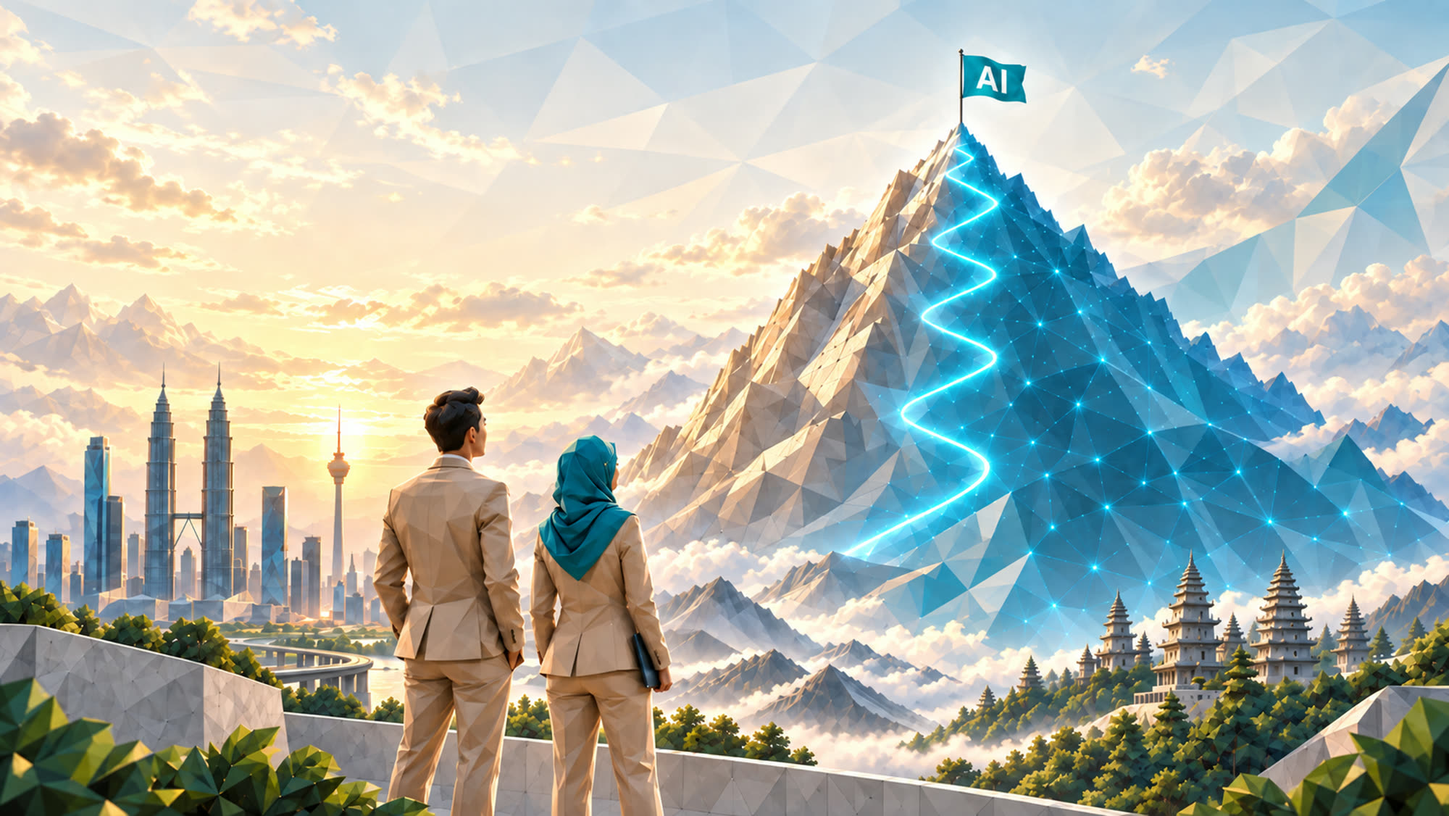
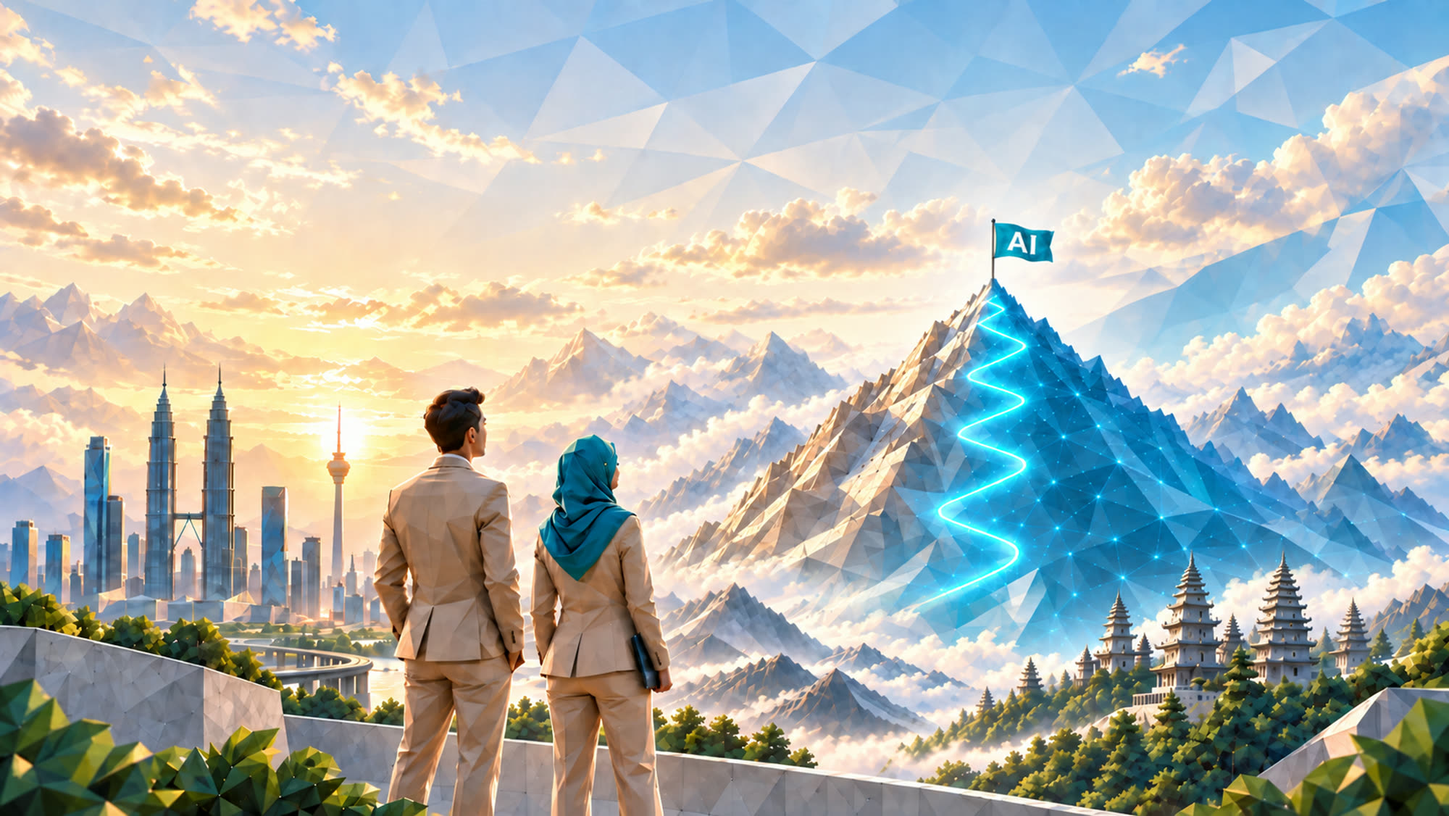
Let the summit carry the hero instead of the scrim
Re-encode the updated banner and rebuild the veil around it. The wash was
heaviest exactly where the peak and its AI flag sit, so it is now light and
sits low, and the copy earns contrast from a paper halo on the type itself.
The copy floats in the band under the summit while the chips hold the base
line. Phone widths crop a full-bleed cover too hard to keep the peak in
frame at all, so they get an art-directed split: copy on paper, whole scene
in a band beneath it.

diff --git a/dist/assets/styles.css b/dist/assets/styles.css
@@ -536,10 +536,11 @@ em {
 
 .home-hero {
   min-height: max(760px, 100svh);
-  align-content: space-between;
+  /* Copy floats in the band under the summit; the chips hold the base line. */
+  grid-template-rows: 1fr auto;
   justify-items: center;
   gap: 2rem;
-  padding-block: clamp(136px, 15vh, 190px) clamp(2rem, 5vh, 3.4rem);
+  padding-block: clamp(200px, 26vh, 320px) clamp(2rem, 5vh, 3.4rem);
   text-align: center;
   isolation: isolate;
 }
@@ -561,20 +562,22 @@ em {
   transition: transform 320ms ease-out;
 }
 
-/* Light scrim: keeps ink type legible up top, lets the scene breathe below. */
+/* A light touch only: the summit and its flag have to stay legible, so the
+   copy carries its own halo below rather than hiding behind a heavy wash. */
 .hero-backdrop::after {
   content: "";
   position: absolute;
   inset: 0;
   background:
-    linear-gradient(to bottom, var(--paper) 0%, rgba(255, 253, 248, 0) 7%),
-    radial-gradient(76% 52% at 50% 36%, rgba(255, 253, 248, 0.86), rgba(255, 253, 248, 0) 74%),
-    linear-gradient(to bottom, rgba(255, 253, 248, 0.94) 0%, rgba(255, 253, 248, 0.82) 32%, rgba(255, 253, 248, 0.46) 56%, rgba(255, 253, 248, 0) 82%);
+    linear-gradient(to bottom, var(--paper) 0%, rgba(255, 253, 248, 0) 5%),
+    radial-gradient(56% 30% at 50% 62%, rgba(255, 253, 248, 0.58), rgba(255, 253, 248, 0) 78%),
+    linear-gradient(to bottom, rgba(255, 253, 248, 0.28) 0%, rgba(255, 253, 248, 0.12) 26%, rgba(255, 253, 248, 0.26) 55%, rgba(255, 253, 248, 0.16) 78%, rgba(255, 253, 248, 0) 94%);
 }
 
 .hero-grid {
   position: relative;
   z-index: 1;
+  align-self: center;
   display: grid;
   justify-items: center;
 }
@@ -611,8 +614,18 @@ em {
 
 /* The scene sits behind this copy, so the lede needs more weight than --muted. */
 .home-hero .hero-lede {
-  color: rgba(16, 37, 33, 0.82);
+  color: rgba(16, 37, 33, 0.86);
   font-weight: 500;
+}
+
+/* A paper halo on the type itself buys contrast without flattening the art. */
+.home-hero .kicker,
+.home-hero .display,
+.home-hero .hero-subhead,
+.home-hero .hero-lede {
+  text-shadow:
+    0 0 14px rgba(255, 253, 248, 0.92),
+    0 0 34px rgba(255, 253, 248, 0.78);
 }
 
 .home-hero .button-row {
@@ -3445,8 +3458,8 @@ body.modal-open {
   /* Narrow crops put the scene right behind the copy, so the veil carries more. */
   .hero-backdrop::after {
     background:
-      linear-gradient(to bottom, var(--paper) 0%, rgba(255, 253, 248, 0) 6%),
-      linear-gradient(to bottom, rgba(255, 253, 248, 0.95) 0%, rgba(255, 253, 248, 0.89) 40%, rgba(255, 253, 248, 0.6) 64%, rgba(255, 253, 248, 0.08) 90%);
+      linear-gradient(to bottom, var(--paper) 0%, rgba(255, 253, 248, 0) 5%),
+      linear-gradient(to bottom, rgba(255, 253, 248, 0.62) 0%, rgba(255, 253, 248, 0.55) 42%, rgba(255, 253, 248, 0.32) 66%, rgba(255, 253, 248, 0) 88%);
   }
   .quiz-page-grid { grid-template-columns: 1fr; }
   .hero-copy { max-width: 700px; }
@@ -3675,6 +3688,46 @@ body.modal-open {
   .event-agenda li div { grid-column: 2; }
   .about-story__grid { grid-template-columns: 1fr; }
   .contact-grid aside { padding: 1.4rem; }
+}
+
+/* Phone widths crop a full-bleed cover so hard that the summit falls outside
+   the frame. Art-direct instead: copy on paper, the whole scene in a band
+   beneath it, so the peak and the flag survive the narrow viewport. */
+@media (max-width: 560px) {
+  .home-hero {
+    min-height: auto;
+    grid-template-rows: auto auto;
+    gap: 1.2rem;
+    padding-block: 96px calc(40vh + 1.3rem);
+    background: linear-gradient(to bottom, var(--beige), var(--paper));
+  }
+
+  .hero-backdrop {
+    inset: auto 0 0 0;
+    height: 40vh;
+  }
+
+  .hero-backdrop img {
+    object-position: 50% 45%;
+    transform: none;
+  }
+
+  .hero-backdrop::after {
+    background: linear-gradient(to bottom, var(--paper) 0%, rgba(255, 253, 248, 0) 22%);
+  }
+
+  /* On a clean ground the halo and the heavier lede are no longer needed. */
+  .home-hero .kicker,
+  .home-hero .display,
+  .home-hero .hero-subhead,
+  .home-hero .hero-lede {
+    text-shadow: none;
+  }
+
+  .home-hero .hero-lede {
+    color: var(--muted);
+    font-weight: 400;
+  }
 }
 
 @media (max-width: 470px) {

diff --git a/src/styles.css b/src/styles.css
@@ -536,10 +536,11 @@ em {
 
 .home-hero {
   min-height: max(760px, 100svh);
-  align-content: space-between;
+  /* Copy floats in the band under the summit; the chips hold the base line. */
+  grid-template-rows: 1fr auto;
   justify-items: center;
   gap: 2rem;
-  padding-block: clamp(136px, 15vh, 190px) clamp(2rem, 5vh, 3.4rem);
+  padding-block: clamp(200px, 26vh, 320px) clamp(2rem, 5vh, 3.4rem);
   text-align: center;
   isolation: isolate;
 }
@@ -561,20 +562,22 @@ em {
   transition: transform 320ms ease-out;
 }
 
-/* Light scrim: keeps ink type legible up top, lets the scene breathe below. */
+/* A light touch only: the summit and its flag have to stay legible, so the
+   copy carries its own halo below rather than hiding behind a heavy wash. */
 .hero-backdrop::after {
   content: "";
   position: absolute;
   inset: 0;
   background:
-    linear-gradient(to bottom, var(--paper) 0%, rgba(255, 253, 248, 0) 7%),
-    radial-gradient(76% 52% at 50% 36%, rgba(255, 253, 248, 0.86), rgba(255, 253, 248, 0) 74%),
-    linear-gradient(to bottom, rgba(255, 253, 248, 0.94) 0%, rgba(255, 253, 248, 0.82) 32%, rgba(255, 253, 248, 0.46) 56%, rgba(255, 253, 248, 0) 82%);
+    linear-gradient(to bottom, var(--paper) 0%, rgba(255, 253, 248, 0) 5%),
+    radial-gradient(56% 30% at 50% 62%, rgba(255, 253, 248, 0.58), rgba(255, 253, 248, 0) 78%),
+    linear-gradient(to bottom, rgba(255, 253, 248, 0.28) 0%, rgba(255, 253, 248, 0.12) 26%, rgba(255, 253, 248, 0.26) 55%, rgba(255, 253, 248, 0.16) 78%, rgba(255, 253, 248, 0) 94%);
 }
 
 .hero-grid {
   position: relative;
   z-index: 1;
+  align-self: center;
   display: grid;
   justify-items: center;
 }
@@ -611,8 +614,18 @@ em {
 
 /* The scene sits behind this copy, so the lede needs more weight than --muted. */
 .home-hero .hero-lede {
-  color: rgba(16, 37, 33, 0.82);
+  color: rgba(16, 37, 33, 0.86);
   font-weight: 500;
+}
+
+/* A paper halo on the type itself buys contrast without flattening the art. */
+.home-hero .kicker,
+.home-hero .display,
+.home-hero .hero-subhead,
+.home-hero .hero-lede {
+  text-shadow:
+    0 0 14px rgba(255, 253, 248, 0.92),
+    0 0 34px rgba(255, 253, 248, 0.78);
 }
 
 .home-hero .button-row {
@@ -3445,8 +3458,8 @@ body.modal-open {
   /* Narrow crops put the scene right behind the copy, so the veil carries more. */
   .hero-backdrop::after {
     background:
-      linear-gradient(to bottom, var(--paper) 0%, rgba(255, 253, 248, 0) 6%),
-      linear-gradient(to bottom, rgba(255, 253, 248, 0.95) 0%, rgba(255, 253, 248, 0.89) 40%, rgba(255, 253, 248, 0.6) 64%, rgba(255, 253, 248, 0.08) 90%);
+      linear-gradient(to bottom, var(--paper) 0%, rgba(255, 253, 248, 0) 5%),
+      linear-gradient(to bottom, rgba(255, 253, 248, 0.62) 0%, rgba(255, 253, 248, 0.55) 42%, rgba(255, 253, 248, 0.32) 66%, rgba(255, 253, 248, 0) 88%);
   }
   .quiz-page-grid { grid-template-columns: 1fr; }
   .hero-copy { max-width: 700px; }
@@ -3675,6 +3688,46 @@ body.modal-open {
   .event-agenda li div { grid-column: 2; }
   .about-story__grid { grid-template-columns: 1fr; }
   .contact-grid aside { padding: 1.4rem; }
+}
+
+/* Phone widths crop a full-bleed cover so hard that the summit falls outside
+   the frame. Art-direct instead: copy on paper, the whole scene in a band
+   beneath it, so the peak and the flag survive the narrow viewport. */
+@media (max-width: 560px) {
+  .home-hero {
+    min-height: auto;
+    grid-template-rows: auto auto;
+    gap: 1.2rem;
+    padding-block: 96px calc(40vh + 1.3rem);
+    background: linear-gradient(to bottom, var(--beige), var(--paper));
+  }
+
+  .hero-backdrop {
+    inset: auto 0 0 0;
+    height: 40vh;
+  }
+
+  .hero-backdrop img {
+    object-position: 50% 45%;
+    transform: none;
+  }
+
+  .hero-backdrop::after {
+    background: linear-gradient(to bottom, var(--paper) 0%, rgba(255, 253, 248, 0) 22%);
+  }
+
+  /* On a clean ground the halo and the heavier lede are no longer needed. */
+  .home-hero .kicker,
+  .home-hero .display,
+  .home-hero .hero-subhead,
+  .home-hero .hero-lede {
+    text-shadow: none;
+  }
+
+  .home-hero .hero-lede {
+    color: var(--muted);
+    font-weight: 400;
+  }
 }
 
 @media (max-width: 470px) {

diff --git a/dist/blog/the-cost-of-complacency-in-the-age-of-ai-and-why-future-proofing-your-talent-matters-more-than-ever/index.html b/dist/blog/the-cost-of-complacency-in-the-age-of-ai-and-why-future-proofing-your-talent-matters-more-than-ever/index.html
@@ -20,7 +20,7 @@
   <meta name="twitter:title" content="The Cost of Complacency in the Age of AI and why future-proofing your talent matters more than ever | Leadapreneur">
   <meta name="twitter:description" content="Complacency in the age of AI shows up when leaders can feel the shift happening, but still move as if there is plenty of time. The business is running. Customers are still buying. Teams are hitting…">
   <meta name="twitter:image" content="https://www.leadapreneur.com/images/insights/the-cost-of-complacency-in-the-age-of-ai-and-why-future-proofing-your-talent-matters-more-than-ever.webp">
-  <link rel="stylesheet" href="/assets/styles.css?v=1cd0111655">
+  <link rel="stylesheet" href="/assets/styles.css?v=43c83c42e1">
   <script type="application/ld+json">{"@context":"https://schema.org","@type":"BreadcrumbList","itemListElement":[{"@type":"ListItem","position":1,"name":"Home","item":"https://www.leadapreneur.com/"},{"@type":"ListItem","position":2,"name":"Insights","item":"https://www.leadapreneur.com/insights/"},{"@type":"ListItem","position":3,"name":"The Cost of Complacency in the Age of AI and why future-proofing your talent matters more than ever","item":"https://www.leadapreneur.com/blog/the-cost-of-complacency-in-the-age-of-ai-and-why-future-proofing-your-talent-matters-more-than-ever/"}]}</script>
 <script type="application/ld+json">{"@context":"https://schema.org","@type":"Article","headline":"The Cost of Complacency in the Age of AI and why future-proofing your talent matters more than ever","description":"Complacency in the age of AI shows up when leaders can feel the shift happening, but still move as if there is plenty of time. The business is running. Customers are still buying. Teams are hitting…","image":"https://www.leadapreneur.com/images/insights/the-cost-of-complacency-in-the-age-of-ai-and-why-future-proofing-your-talent-matters-more-than-ever.webp","datePublished":"2026-02-13","dateModified":"2026-02-13","author":{"@type":"Person","name":"Hanaa Maysoon"},"publisher":{"@type":"Organization","name":"Leadapreneur","url":"https://www.leadapreneur.com"},"mainEntityOfPage":"https://www.leadapreneur.com/blog/the-cost-of-complacency-in-the-age-of-ai-and-why-future-proofing-your-talent-matters-more-than-ever/"}</script>
 </head>

diff --git a/dist/blog/navigating-the-impact-of-ai-on-jobs-and-leadership-models-a-systemic-approach-to-embracing-change/index.html b/dist/blog/navigating-the-impact-of-ai-on-jobs-and-leadership-models-a-systemic-approach-to-embracing-change/index.html
@@ -20,7 +20,7 @@
   <meta name="twitter:title" content="Navigating the Impact of AI on Jobs and Leadership Models: A Systemic Approach to Embracing Change | Leadapreneur">
   <meta name="twitter:description" content="Artificial Intelligence (AI) is a technology that has revolutionized the way we live and work. Recently, tech moguls have signed an open letter asking for a pause in AI development to regulate the…">
   <meta name="twitter:image" content="https://www.leadapreneur.com/images/insights/navigating-the-impact-of-ai-on-jobs-and-leadership-models-a-systemic-approach-to-embracing-change.webp">
-  <link rel="stylesheet" href="/assets/styles.css?v=1cd0111655">
+  <link rel="stylesheet" href="/assets/styles.css?v=43c83c42e1">
   <script type="application/ld+json">{"@context":"https://schema.org","@type":"BreadcrumbList","itemListElement":[{"@type":"ListItem","position":1,"name":"Home","item":"https://www.leadapreneur.com/"},{"@type":"ListItem","position":2,"name":"Insights","item":"https://www.leadapreneur.com/insights/"},{"@type":"ListItem","position":3,"name":"Navigating the Impact of AI on Jobs and Leadership Models: A Systemic Approach to Embracing Change","item":"https://www.leadapreneur.com/blog/navigating-the-impact-of-ai-on-jobs-and-leadership-models-a-systemic-approach-to-embracing-change/"}]}</script>
 <script type="application/ld+json">{"@context":"https://schema.org","@type":"Article","headline":"Navigating the Impact of AI on Jobs and Leadership Models: A Systemic Approach to Embracing Change","description":"Artificial Intelligence (AI) is a technology that has revolutionized the way we live and work. Recently, tech moguls have signed an open letter asking for a pause in AI development to regulate the…","image":"https://www.leadapreneur.com/images/insights/navigating-the-impact-of-ai-on-jobs-and-leadership-models-a-systemic-approach-to-embracing-change.webp","datePublished":"2024-01-30","dateModified":"2024-01-30","author":{"@type":"Organization","name":"Leadapreneur"},"publisher":{"@type":"Organization","name":"Leadapreneur","url":"https://www.leadapreneur.com"},"mainEntityOfPage":"https://www.leadapreneur.com/blog/navigating-the-impact-of-ai-on-jobs-and-leadership-models-a-systemic-approach-to-embracing-change/"}</script>
 </head>

diff --git a/dist/blog/what-we-witnessed-at-leadapreneur-open-day-2025-a-real-look-at-future-proofing-your-talent-in-the-age-of-ai/index.html b/dist/blog/what-we-witnessed-at-leadapreneur-open-day-2025-a-real-look-at-future-proofing-your-talent-in-the-age-of-ai/index.html
@@ -20,7 +20,7 @@
   <meta name="twitter:title" content="What We Witnessed at Leadapreneur Open Day 2025: A Real Look at Future Proofing Your Talent In The Age Of AI | Leadapreneur">
   <meta name="twitter:description" content="Something unexpected happened at Leadapreneur’s Open Day on June 11, 2025 and it turned a great event into something unforgettable.">
   <meta name="twitter:image" content="https://www.leadapreneur.com/images/insights/what-we-witnessed-at-leadapreneur-open-day-2025-a-real-look-at-future-proofing-your-talent-in-the-age-of-ai.webp">
-  <link rel="stylesheet" href="/assets/styles.css?v=1cd0111655">
+  <link rel="stylesheet" href="/assets/styles.css?v=43c83c42e1">
   <script type="application/ld+json">{"@context":"https://schema.org","@type":"BreadcrumbList","itemListElement":[{"@type":"ListItem","position":1,"name":"Home","item":"https://www.leadapreneur.com/"},{"@type":"ListItem","position":2,"name":"Insights","item":"https://www.leadapreneur.com/insights/"},{"@type":"ListItem","position":3,"name":"What We Witnessed at Leadapreneur Open Day 2025: A Real Look at Future Proofing Your Talent In The Age Of AI","item":"https://www.leadapreneur.com/blog/what-we-witnessed-at-leadapreneur-open-day-2025-a-real-look-at-future-proofing-your-talent-in-the-age-of-ai/"}]}</script>
 <script type="application/ld+json">{"@context":"https://schema.org","@type":"Article","headline":"What We Witnessed at Leadapreneur Open Day 2025: A Real Look at Future Proofing Your Talent In The Age Of AI","description":"Something unexpected happened at Leadapreneur’s Open Day on June 11, 2025 and it turned a great event into something unforgettable.","image":"https://www.leadapreneur.com/images/insights/what-we-witnessed-at-leadapreneur-open-day-2025-a-real-look-at-future-proofing-your-talent-in-the-age-of-ai.webp","datePublished":"2025-07-01","dateModified":"2025-07-01","author":{"@type":"Organization","name":"Leadapreneur"},"publisher":{"@type":"Organization","name":"Leadapreneur","url":"https://www.leadapreneur.com"},"mainEntityOfPage":"https://www.leadapreneur.com/blog/what-we-witnessed-at-leadapreneur-open-day-2025-a-real-look-at-future-proofing-your-talent-in-the-age-of-ai/"}</script>
 </head>

diff --git a/dist/blog/embracing-change-navigating-the-emotional-journey-of-innovation-in-the-age-of-purpose/index.html b/dist/blog/embracing-change-navigating-the-emotional-journey-of-innovation-in-the-age-of-purpose/index.html
@@ -20,7 +20,7 @@
   <meta name="twitter:title" content="Embracing Change: Navigating the Emotional Journey of Innovation in the Age of Purpose | Leadapreneur">
   <meta name="twitter:description" content="Change is inevitable, and we are currently living in a time of rapid technological advancement. In the podcast discussion, Jan and Hanaa explore the exciting possibilities that artificial intelligence…">
   <meta name="twitter:image" content="https://www.leadapreneur.com/images/insights/embracing-change-navigating-the-emotional-journey-of-innovation-in-the-age-of-purpose.webp">
-  <link rel="stylesheet" href="/assets/styles.css?v=1cd0111655">
+  <link rel="stylesheet" href="/assets/styles.css?v=43c83c42e1">
   <script type="application/ld+json">{"@context":"https://schema.org","@type":"BreadcrumbList","itemListElement":[{"@type":"ListItem","position":1,"name":"Home","item":"https://www.leadapreneur.com/"},{"@type":"ListItem","position":2,"name":"Insights","item":"https://www.leadapreneur.com/insights/"},{"@type":"ListItem","position":3,"name":"Embracing Change: Navigating the Emotional Journey of Innovation in the Age of Purpose","item":"https://www.leadapreneur.com/blog/embracing-change-navigating-the-emotional-journey-of-innovation-in-the-age-of-purpose/"}]}</script>
 <script type="application/ld+json">{"@context":"https://schema.org","@type":"Article","headline":"Embracing Change: Navigating the Emotional Journey of Innovation in the Age of Purpose","description":"Change is inevitable, and we are currently living in a time of rapid technological advancement. In the podcast discussion, Jan and Hanaa explore the exciting possibilities that artificial intelligence…","image":"https://www.leadapreneur.com/images/insights/embracing-change-navigating-the-emotional-journey-of-innovation-in-the-age-of-purpose.webp","datePublished":"2024-05-03","dateModified":"2024-05-03","author":{"@type":"Organization","name":"Leadapreneur"},"publisher":{"@type":"Organization","name":"Leadapreneur","url":"https://www.leadapreneur.com"},"mainEntityOfPage":"https://www.leadapreneur.com/blog/embracing-change-navigating-the-emotional-journey-of-innovation-in-the-age-of-purpose/"}</script>
 </head>

diff --git a/dist/blog/the-real-story-in-the-2028-intelligence-crisis-report-leadership-ai-impowerment-futureproof/index.html b/dist/blog/the-real-story-in-the-2028-intelligence-crisis-report-leadership-ai-impowerment-futureproof/index.html
@@ -20,7 +20,7 @@
   <meta name="twitter:title" content="The Real Story in the 2028 Intelligence Crisis Report | Leadapreneur">
   <meta name="twitter:description" content="There’s a piece floating around in parts of the AI and finance world that’s been getting a lot of attention. It’s from Citrini Research, and it’s written as a future memo from the year 2028. The…">
   <meta name="twitter:image" content="https://www.leadapreneur.com/images/insights/the-real-story-in-the-2028-intelligence-crisis-report-leadership-ai-impowerment-futureproof.webp">
-  <link rel="stylesheet" href="/assets/styles.css?v=1cd0111655">
+  <link rel="stylesheet" href="/assets/styles.css?v=43c83c42e1">
   <script type="application/ld+json">{"@context":"https://schema.org","@type":"BreadcrumbList","itemListElement":[{"@type":"ListItem","position":1,"name":"Home","item":"https://www.leadapreneur.com/"},{"@type":"ListItem","position":2,"name":"Insights","item":"https://www.leadapreneur.com/insights/"},{"@type":"ListItem","position":3,"name":"The Real Story in the 2028 Intelligence Crisis Report","item":"https://www.leadapreneur.com/blog/the-real-story-in-the-2028-intelligence-crisis-report-leadership-ai-impowerment-futureproof/"}]}</script>
 <script type="application/ld+json">{"@context":"https://schema.org","@type":"Article","headline":"The Real Story in the 2028 Intelligence Crisis Report","description":"There’s a piece floating around in parts of the AI and finance world that’s been getting a lot of attention. It’s from Citrini Research, and it’s written as a future memo from the year 2028. The…","image":"https://www.leadapreneur.com/images/insights/the-real-story-in-the-2028-intelligence-crisis-report-leadership-ai-impowerment-futureproof.webp","datePublished":"2026-03-17","dateModified":"2026-03-17","author":{"@type":"Person","name":"Hanaa Maysoon"},"publisher":{"@type":"Organization","name":"Leadapreneur","url":"https://www.leadapreneur.com"},"mainEntityOfPage":"https://www.leadapreneur.com/blog/the-real-story-in-the-2028-intelligence-crisis-report-leadership-ai-impowerment-futureproof/"}</script>
 </head>

diff --git a/dist/blog/wu-wei-ing-her-way-through-the-leadapreneurship-journey-sakinah-ghazali/index.html b/dist/blog/wu-wei-ing-her-way-through-the-leadapreneurship-journey-sakinah-ghazali/index.html
@@ -20,7 +20,7 @@
   <meta name="twitter:title" content="Wu Wei-ing her way through the leadapreneurship journey: Sakinah Ghazali | Leadapreneur">
   <meta name="twitter:description" content="The desire to succeed was greater than failure. That was how Sakinah Ghazali narrates her journey of becoming a leadapreneur. When the Assistant Vice President of Partnership Pos from AXA Affin General…">
   <meta name="twitter:image" content="https://www.leadapreneur.com/images/insights/wu-wei-ing-her-way-through-the-leadapreneurship-journey-sakinah-ghazali.webp">
-  <link rel="stylesheet" href="/assets/styles.css?v=1cd0111655">
+  <link rel="stylesheet" href="/assets/styles.css?v=43c83c42e1">
   <script type="application/ld+json">{"@context":"https://schema.org","@type":"BreadcrumbList","itemListElement":[{"@type":"ListItem","position":1,"name":"Home","item":"https://www.leadapreneur.com/"},{"@type":"ListItem","position":2,"name":"Insights","item":"https://www.leadapreneur.com/insights/"},{"@type":"ListItem","position":3,"name":"Wu Wei-ing her way through the leadapreneurship journey: Sakinah Ghazali","item":"https://www.leadapreneur.com/blog/wu-wei-ing-her-way-through-the-leadapreneurship-journey-sakinah-ghazali/"}]}</script>
 <script type="application/ld+json">{"@context":"https://schema.org","@type":"Article","headline":"Wu Wei-ing her way through the leadapreneurship journey: Sakinah Ghazali","description":"The desire to succeed was greater than failure. That was how Sakinah Ghazali narrates her journey of becoming a leadapreneur. When the Assistant Vice President of Partnership Pos from AXA Affin General…","image":"https://www.leadapreneur.com/images/insights/wu-wei-ing-her-way-through-the-leadapreneurship-journey-sakinah-ghazali.webp","datePublished":"2024-06-11","dateModified":"2024-06-11","author":{"@type":"Organization","name":"Leadapreneur"},"publisher":{"@type":"Organization","name":"Leadapreneur","url":"https://www.leadapreneur.com"},"mainEntityOfPage":"https://www.leadapreneur.com/blog/wu-wei-ing-her-way-through-the-leadapreneurship-journey-sakinah-ghazali/"}</script>
 </head>

diff --git a/dist/blog/making-change-viable-the-leadapreneur-way-sarah-margaret-peter-victorian/index.html b/dist/blog/making-change-viable-the-leadapreneur-way-sarah-margaret-peter-victorian/index.html
@@ -20,7 +20,7 @@
   <meta name="twitter:title" content="Making change viable the Leadapreneur way: Sarah Margaret Peter Victorian | Leadapreneur">
   <meta name="twitter:description" content="Business leaders are aware that change is the precursor to growth but for Sarah Margaret Peter, it is so important because change also determines business sustainability, especially in the face of…">
   <meta name="twitter:image" content="https://www.leadapreneur.com/images/insights/making-change-viable-the-leadapreneur-way-sarah-margaret-peter-victorian.webp">
-  <link rel="stylesheet" href="/assets/styles.css?v=1cd0111655">
+  <link rel="stylesheet" href="/assets/styles.css?v=43c83c42e1">
   <script type="application/ld+json">{"@context":"https://schema.org","@type":"BreadcrumbList","itemListElement":[{"@type":"ListItem","position":1,"name":"Home","item":"https://www.leadapreneur.com/"},{"@type":"ListItem","position":2,"name":"Insights","item":"https://www.leadapreneur.com/insights/"},{"@type":"ListItem","position":3,"name":"Making change viable the Leadapreneur way: Sarah Margaret Peter Victorian","item":"https://www.leadapreneur.com/blog/making-change-viable-the-leadapreneur-way-sarah-margaret-peter-victorian/"}]}</script>
 <script type="application/ld+json">{"@context":"https://schema.org","@type":"Article","headline":"Making change viable the Leadapreneur way: Sarah Margaret Peter Victorian","description":"Business leaders are aware that change is the precursor to growth but for Sarah Margaret Peter, it is so important because change also determines business sustainability, especially in the face of…","image":"https://www.leadapreneur.com/images/insights/making-change-viable-the-leadapreneur-way-sarah-margaret-peter-victorian.webp","datePublished":"2024-05-22","dateModified":"2024-05-22","author":{"@type":"Organization","name":"Leadapreneur"},"publisher":{"@type":"Organization","name":"Leadapreneur","url":"https://www.leadapreneur.com"},"mainEntityOfPage":"https://www.leadapreneur.com/blog/making-change-viable-the-leadapreneur-way-sarah-margaret-peter-victorian/"}</script>
 </head>

diff --git a/dist/blog/this-warrior-finds-his-reward-through-leadapreneur-danny-chia-kai-yan/index.html b/dist/blog/this-warrior-finds-his-reward-through-leadapreneur-danny-chia-kai-yan/index.html
@@ -20,7 +20,7 @@
   <meta name="twitter:title" content="This warrior finds his reward through Leadapreneur: Danny Chia Kai Yan | Leadapreneur">
   <meta name="twitter:description" content="Danny Chia Kai Yan has always been a problem solver at heart, which explains why he has always enjoyed working with coding and development programmes that help businesses maximise their efficiency.">
   <meta name="twitter:image" content="https://www.leadapreneur.com/images/insights/this-warrior-finds-his-reward-through-leadapreneur-danny-chia-kai-yan.webp">
-  <link rel="stylesheet" href="/assets/styles.css?v=1cd0111655">
+  <link rel="stylesheet" href="/assets/styles.css?v=43c83c42e1">
   <script type="application/ld+json">{"@context":"https://schema.org","@type":"BreadcrumbList","itemListElement":[{"@type":"ListItem","position":1,"name":"Home","item":"https://www.leadapreneur.com/"},{"@type":"ListItem","position":2,"name":"Insights","item":"https://www.leadapreneur.com/insights/"},{"@type":"ListItem","position":3,"name":"This warrior finds his reward through Leadapreneur: Danny Chia Kai Yan","item":"https://www.leadapreneur.com/blog/this-warrior-finds-his-reward-through-leadapreneur-danny-chia-kai-yan/"}]}</script>
 <script type="application/ld+json">{"@context":"https://schema.org","@type":"Article","headline":"This warrior finds his reward through Leadapreneur: Danny Chia Kai Yan","description":"Danny Chia Kai Yan has always been a problem solver at heart, which explains why he has always enjoyed working with coding and development programmes that help businesses maximise their efficiency.","image":"https://www.leadapreneur.com/images/insights/this-warrior-finds-his-reward-through-leadapreneur-danny-chia-kai-yan.webp","datePublished":"2024-08-12","dateModified":"2024-08-12","author":{"@type":"Organization","name":"Leadapreneur"},"publisher":{"@type":"Organization","name":"Leadapreneur","url":"https://www.leadapreneur.com"},"mainEntityOfPage":"https://www.leadapreneur.com/blog/this-warrior-finds-his-reward-through-leadapreneur-danny-chia-kai-yan/"}</script>
 </head>

diff --git a/dist/blog/ai-in-the-workplace-leadapreneur-gamified-programs/index.html b/dist/blog/ai-in-the-workplace-leadapreneur-gamified-programs/index.html
@@ -20,7 +20,7 @@
   <meta name="twitter:title" content="How AI is Reshaping Careers: From Tessl’s Innovations to the Future of Entry-Level Jobs | Leadapreneur">
   <meta name="twitter:description" content="The rise of artificial intelligence (AI) is no longer just a buzzword—it&#039;s reshaping industries, redefining roles, and disrupting traditional career paths. From platforms like Tessl , which raised…">
   <meta name="twitter:image" content="https://www.leadapreneur.com/images/insights/ai-in-the-workplace-leadapreneur-gamified-programs.webp">
-  <link rel="stylesheet" href="/assets/styles.css?v=1cd0111655">
+  <link rel="stylesheet" href="/assets/styles.css?v=43c83c42e1">
   <script type="application/ld+json">{"@context":"https://schema.org","@type":"BreadcrumbList","itemListElement":[{"@type":"ListItem","position":1,"name":"Home","item":"https://www.leadapreneur.com/"},{"@type":"ListItem","position":2,"name":"Insights","item":"https://www.leadapreneur.com/insights/"},{"@type":"ListItem","position":3,"name":"How AI is Reshaping Careers: From Tessl’s Innovations to the Future of Entry-Level Jobs","item":"https://www.leadapreneur.com/blog/ai-in-the-workplace-leadapreneur-gamified-programs/"}]}</script>
 <script type="application/ld+json">{"@context":"https://schema.org","@type":"Article","headline":"How AI is Reshaping Careers: From Tessl’s Innovations to the Future of Entry-Level Jobs","description":"The rise of artificial intelligence (AI) is no longer just a buzzword—it's reshaping industries, redefining roles, and disrupting traditional career paths. From platforms like Tessl , which raised…","image":"https://www.leadapreneur.com/images/insights/ai-in-the-workplace-leadapreneur-gamified-programs.webp","datePublished":"2024-11-24","dateModified":"2024-11-24","author":{"@type":"Organization","name":"Leadapreneur"},"publisher":{"@type":"Organization","name":"Leadapreneur","url":"https://www.leadapreneur.com"},"mainEntityOfPage":"https://www.leadapreneur.com/blog/ai-in-the-workplace-leadapreneur-gamified-programs/"}</script>
 </head>

diff --git a/dist/blog/from-resistance-to-renewal-wendy’s-leadership-journey-through-the-toshiba-teka-greatness-games/index.html b/dist/blog/from-resistance-to-renewal-wendy’s-leadership-journey-through-the-toshiba-teka-greatness-games/index.html
@@ -20,7 +20,7 @@
   <meta name="twitter:title" content="From Resistance to Renewal: Wendy’s Leadership Journey Through the TOSHIBA TEKA Greatness Games | Leadapreneur">
   <meta name="twitter:description" content="Most organisations talk about transformation. Very few are willing to live through it.">
   <meta name="twitter:image" content="https://www.leadapreneur.com/images/insights/from-resistance-to-renewal-wendy’s-leadership-journey-through-the-toshiba-teka-greatness-games.webp">
-  <link rel="stylesheet" href="/assets/styles.css?v=1cd0111655">
+  <link rel="stylesheet" href="/assets/styles.css?v=43c83c42e1">
   <script type="application/ld+json">{"@context":"https://schema.org","@type":"BreadcrumbList","itemListElement":[{"@type":"ListItem","position":1,"name":"Home","item":"https://www.leadapreneur.com/"},{"@type":"ListItem","position":2,"name":"Insights","item":"https://www.leadapreneur.com/insights/"},{"@type":"ListItem","position":3,"name":"From Resistance to Renewal: Wendy’s Leadership Journey Through the TOSHIBA TEKA Greatness Games","item":"https://www.leadapreneur.com/blog/from-resistance-to-renewal-wendy’s-leadership-journey-through-the-toshiba-teka-greatness-games/"}]}</script>
 <script type="application/ld+json">{"@context":"https://schema.org","@type":"Article","headline":"From Resistance to Renewal: Wendy’s Leadership Journey Through the TOSHIBA TEKA Greatness Games","description":"Most organisations talk about transformation. Very few are willing to live through it.","image":"https://www.leadapreneur.com/images/insights/from-resistance-to-renewal-wendy’s-leadership-journey-through-the-toshiba-teka-greatness-games.webp","datePublished":"2026-01-19","dateModified":"2026-01-19","author":{"@type":"Organization","name":"Leadapreneur"},"publisher":{"@type":"Organization","name":"Leadapreneur","url":"https://www.leadapreneur.com"},"mainEntityOfPage":"https://www.leadapreneur.com/blog/from-resistance-to-renewal-wendy%E2%80%99s-leadership-journey-through-the-toshiba-teka-greatness-games/"}</script>
 </head>
